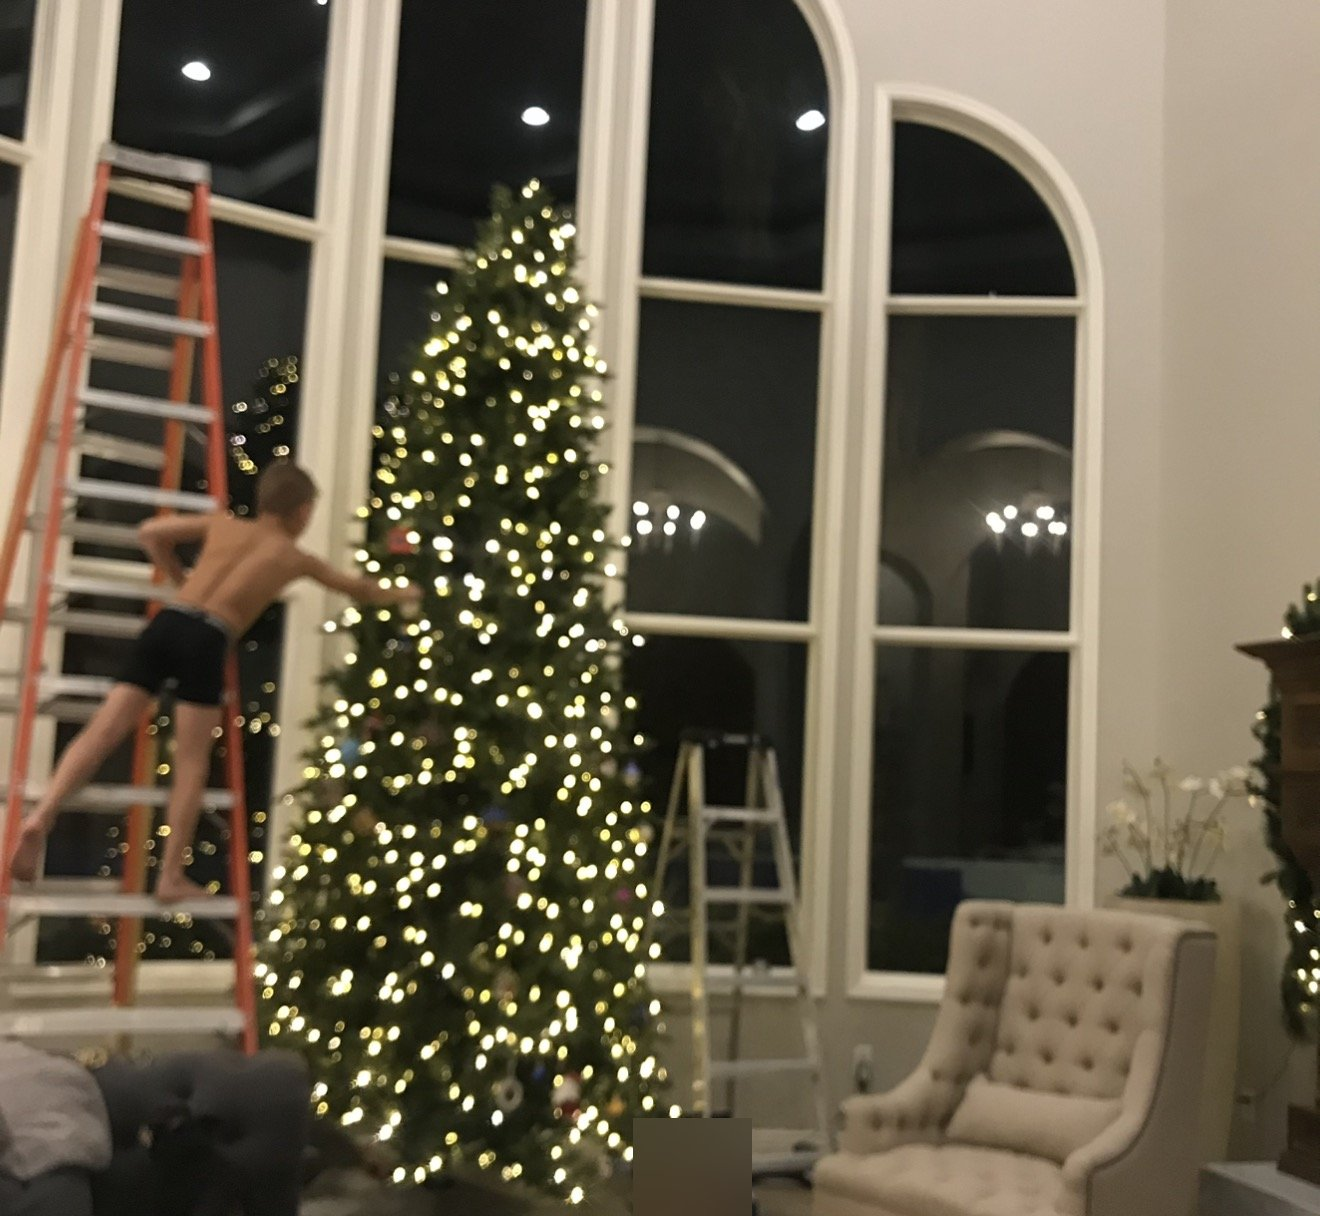
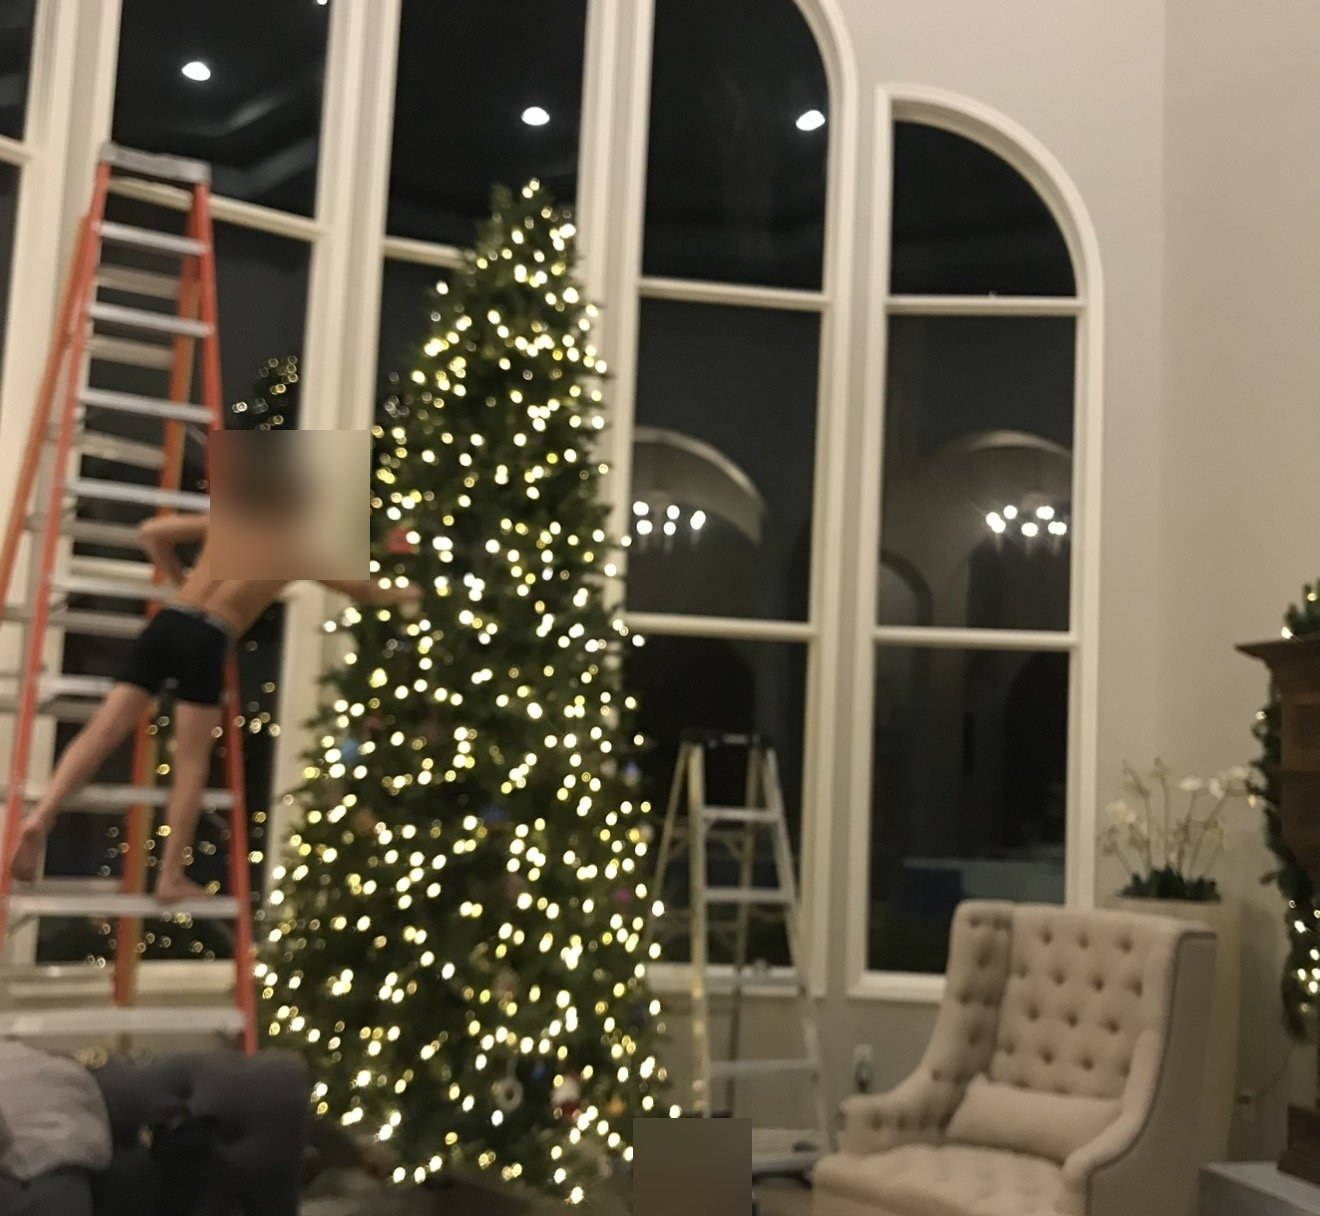
Cover two missed faces and the bookstore address on the new photos
The Christmas ladder photo and the beach photo still showed a child's
face. The book-signing poster showed the store's city and street.
Those spots are covered, and the signing description no longer names
the city. The other new photos and every earlier slide are unchanged.

Changed region(s): [[0.1553, 0.3438, 0.2795, 0.5]]

diff --git a/app/components/PhotoGallery.js b/app/components/PhotoGallery.js
@@ -283,7 +283,7 @@ const NOV4 = [
   { src: '/assets/gallery-nov4/nov4-05-ski-gondola.jpg', alt: 'Jen Archuleta with a toddler on a ski gondola', caption: '', width: 1289, height: 1600 },
   { src: '/assets/gallery-nov4/nov4-06-beach-bodyboard.jpg', alt: 'A dad and kids walking to the beach with a yellow bodyboard', caption: '', width: 1320, height: 1165 },
   { src: '/assets/gallery-nov4/nov4-07-private-jet.jpg', alt: 'Two kids inside a private jet', caption: '', width: 922, height: 1263 },
-  { src: '/assets/gallery-nov4/nov4-08-book-signing.jpg', alt: 'Jen Archuleta at her book signing in Boardman', caption: '', width: 1155, height: 876 },
+  { src: '/assets/gallery-nov4/nov4-08-book-signing.jpg', alt: 'Jen Archuleta at her book signing', caption: '', width: 1155, height: 876 },
   { src: '/assets/gallery-nov4/nov4-09-playboy-collage.jpg', alt: 'Collage of Jen Archuleta from Playboy', caption: '', width: 1320, height: 1202 },
   { src: '/assets/gallery-nov4/nov4-10-white-bikini-studio.jpg', alt: 'Jen Archuleta in a white bikini, studio photo', caption: '', width: 400, height: 267 },
   { src: '/assets/gallery-nov4/nov4-11-beach-bikini.jpg', alt: 'Jen Archuleta on the beach in a coral top and blue bikini', caption: '', width: 365, height: 547 },

diff --git a/CLAUDE.md b/CLAUDE.md
@@ -24,7 +24,7 @@ _Last updated: 2026-11-03, night (Shop: every offer says what you get, the total
 - **About Me is Jen's own words**, one page, exactly as she wrote them (Nov 3). Don't add,
   trim, or reword. Say "rescues", not "rescue dogs". **About the Author** (`/about-the-author`)
   is the separate formal page.
-- **Gallery:** the full November 3 set is back (`SLIDES` in `PhotoGallery.js`), not the 19-photo shortlist. Out of the carousel: the Playboy SXSW stage photo, the blurred kids-and-dogs bed photo, and the long-hair glamour headshot (that one stays on the About Me red carpet row).
+- **Gallery:** the full November 3 set is back (`SLIDES` in `PhotoGallery.js`), not the 19-photo shortlist, plus Jen's November 4 batch of 20 (`NOV4`, after the October 26 slides, no captions). Out of the carousel: the Playboy SXSW stage photo, the blurred kids-and-dogs bed photo, and the long-hair glamour headshot (that one stays on the About Me red carpet row).
 - **Menu:** "Get the first chapter free" is in the Book drop-down and is a button at the bottom
   of the phone menu.
 - **Footer:** the book credit reads "Jen Walcott Archuleta." YouTube (the podcast channel) is
